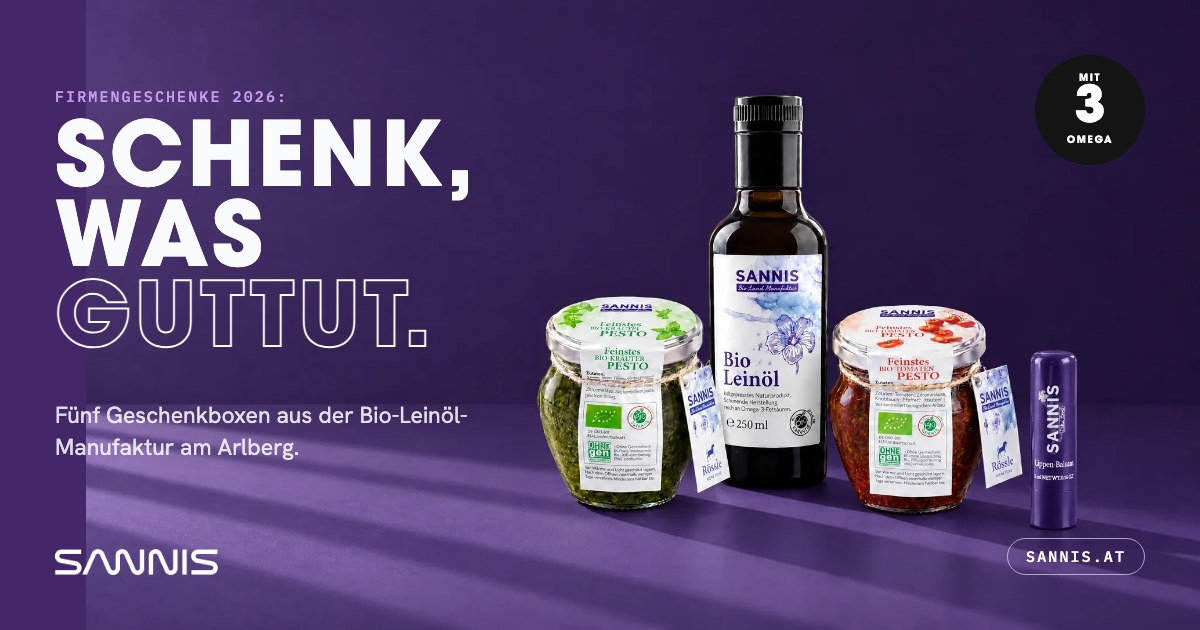
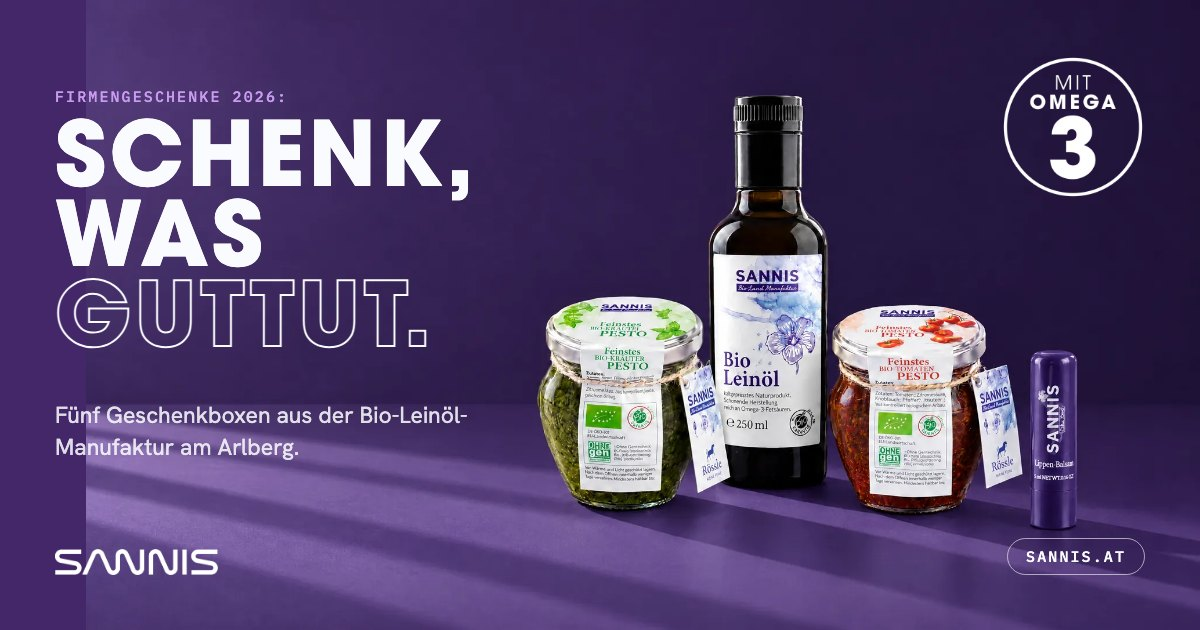
Omega-3-Label: Haralds Datei statt CSS-Badge (Hero, Herz, OG-Bild)

Changed region(s): [[0.8325, 0.0905, 0.9558, 0.3317]]

diff --git a/index.html b/index.html
@@ -89,11 +89,7 @@ section{position:relative}
 
 /* ---------- Omega-3-Badge (Style Guide Kap. 04: schwarzer Kreis „MIT / 3 / OMEGA“) */
 /* Omega-3-Badge 1:1 nach Style Guide 1.0, freigegeben (.c-omg: 240 px · i 22/600/.16em · b 108/850 · gap 2) */
-.o3{--d:89px;width:var(--d);height:var(--d);flex:none;border-radius:50%;background:#141414;color:#fff;display:inline-flex;flex-direction:column;align-items:center;justify-content:center;gap:calc(var(--d) * .0083)}
-.o3 i{font:600 calc(var(--d) * .0917)/1 var(--display);font-style:normal;letter-spacing:.16em;text-transform:uppercase}
-.o3 b{font:850 calc(var(--d) * .45)/1 var(--display)}
-.o3.sm{--d:55px}
-.o3.lg{--d:110px}
+.o3{display:block;width:110px;height:110px;flex:none}
 
 /* ---------- Header */
 .top{position:sticky;top:0;z-index:50;background:var(--violet);color:var(--eis);border-bottom:1px solid rgba(250,251,255,.12)}
@@ -116,6 +112,7 @@ section{position:relative}
 .hero-stage picture.on{opacity:1}
 .hero-stage img{width:100%;height:100%;object-fit:cover}
 .hero-o3{position:absolute;top:var(--s21);right:var(--s21);z-index:3}
+.hero-stage .hero-o3 img.o3{width:110px;height:110px;object-fit:contain}
 .hero-dots{position:absolute;left:var(--gutter);right:var(--gutter);bottom:var(--s21);display:flex;gap:var(--s8);z-index:2}
 .hero-dots button{flex:1;height:34px;border:0;background:none;padding:0;cursor:pointer;display:flex;flex-direction:column;justify-content:flex-end;gap:var(--s8);font:500 10px/1 var(--mono);letter-spacing:.12em;text-transform:uppercase;color:var(--on-violet-muted);text-align:left}
 .hero-dots button::after{content:"";display:block;height:2px;background:rgba(250,251,255,.3)}
@@ -169,7 +166,6 @@ section{position:relative}
 .picker::-webkit-scrollbar{display:none}
 .picker a{flex:0 0 61.8%;scroll-snap-align:start;text-decoration:none;color:var(--ink)}
 .picker .pimg{position:relative;display:block}
-.picker .pimg .o3{position:absolute;top:var(--s8);right:var(--s8);--d:44px}
 .picker img{aspect-ratio:4/5;object-fit:cover;width:100%;background:var(--violet)}
 .picker .ptitle{display:flex;justify-content:space-between;align-items:baseline;margin-top:var(--s13);font:700 14px/1.2 var(--display);letter-spacing:.1em;text-transform:uppercase;color:var(--violet)}
 .picker .ptitle small{font:400 11px/1 var(--display);letter-spacing:.12em;color:var(--muted)}
@@ -420,7 +416,7 @@ legend{padding:0;margin-bottom:var(--s21);font:700 16px/1.2 var(--display);lette
     <div class="hero-stage" id="heroStage" aria-label="Die fünf SANNIS-Geschenkboxen">
       <!-- gefüllt per JS aus BOXES -->
       <div class="hero-dots" id="heroDots"></div>
-      <div class="hero-o3"><span class="o3 lg" role="img" aria-label="Mit Omega-3"><i>Mit</i><b>3</b><i>Omega</i></span></div>
+      <div class="hero-o3"><img class="o3" src="assets/img/omega3/omega3_label_white_outline.png" width="110" height="110" alt="Mit Omega-3"></div>
     </div>
   </div>
 </section>
@@ -453,7 +449,7 @@ legend{padding:0;margin-bottom:var(--s21);font:700 16px/1.2 var(--display);lette
     <div>
       <p class="label rv">Das Herz jeder Box:</p>
       <h2 class="h2 rv">Ein Öl.<br><span class="outline">Alles,</span><br>was guttut.</h2>
-      <div class="rv" style="margin-top:var(--s34)"><span class="o3" role="img" aria-label="Mit Omega-3"><i>Mit</i><b>3</b><i>Omega</i></span></div>
+      <div class="rv" style="margin-top:var(--s34)"><img class="o3" src="assets/img/omega3/omega3_label_white.png" width="110" height="110" alt="Mit Omega-3" loading="lazy"></div>
     </div>
     <div>
       <p class="lead rv" style="margin-top:0">In jedem SANNIS-Produkt steckt dasselbe: Bio-Leinöl aus unserer eigenen Presse. Das Öl ist reich an Omega-3 und voller Genuss – cremig, nussig, nicht bitter, weil wir schonend kalt pressen. In der Küche ist es Lebensmittel, im Bad die Basis von SANNIS Kosmetik. So wie innen, so auch außen.</p>
